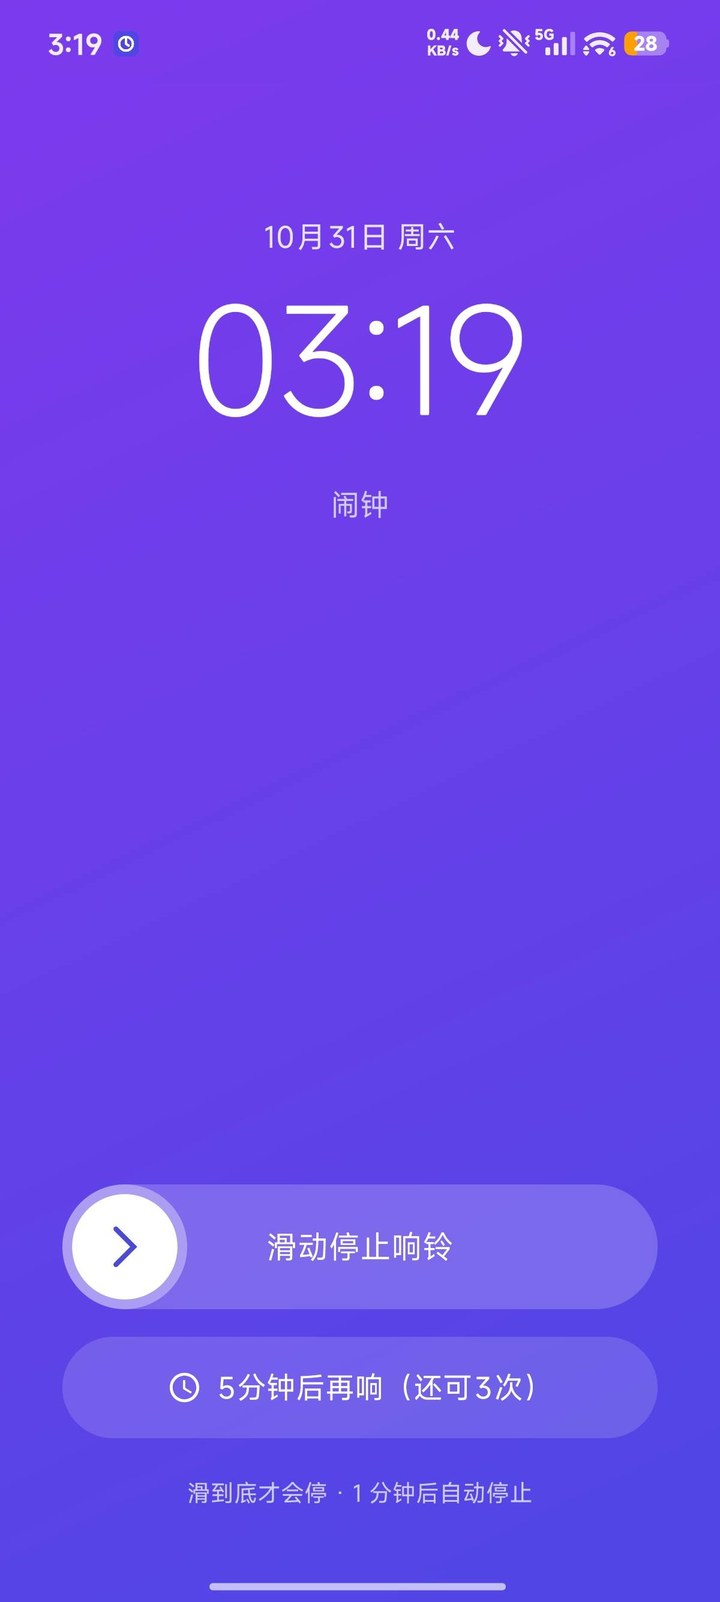
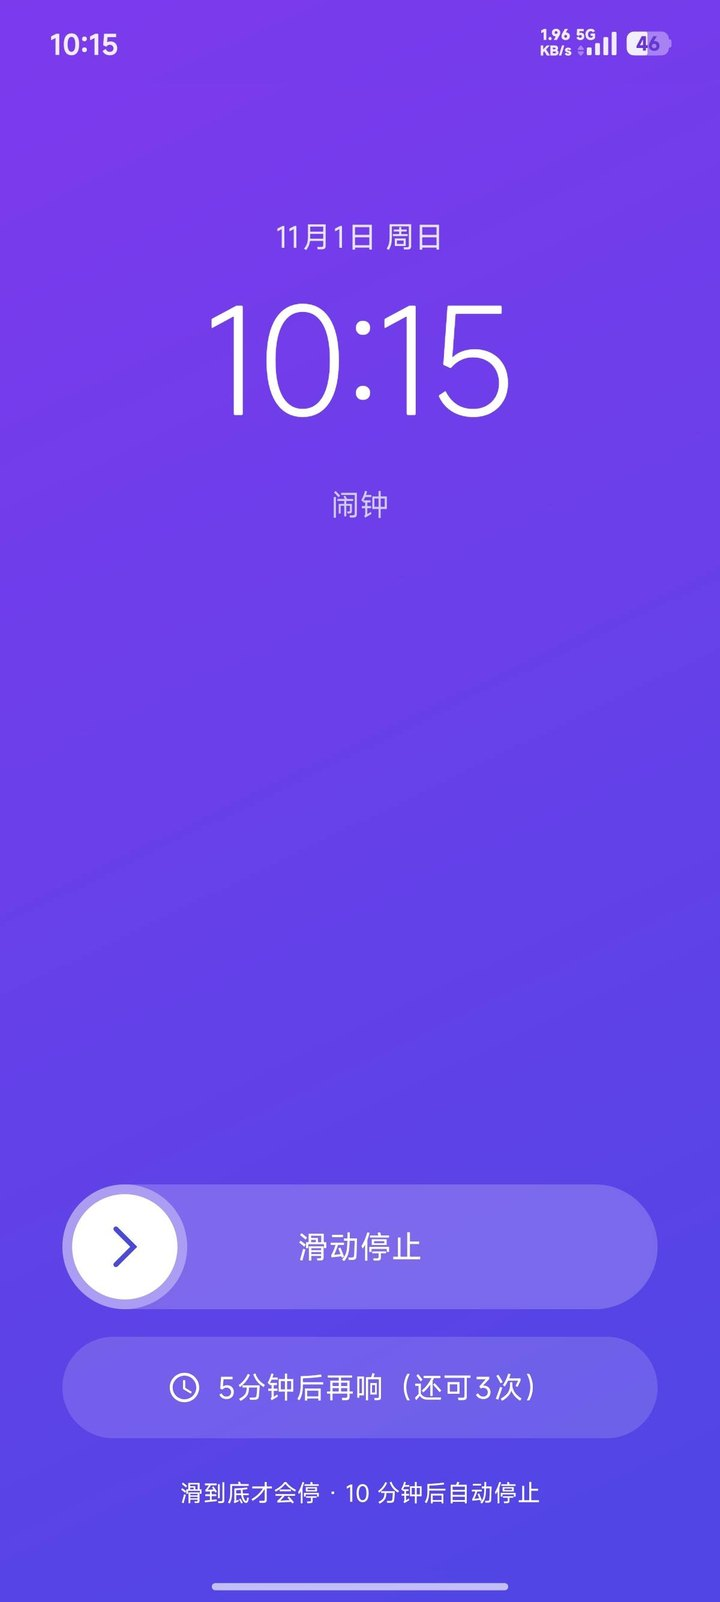
v1.0.8（246）：桌面图标改成 App 内那副，README 三张截图换新
桌面图标：针 7 → 4.7（原版针与环同粗，是「看着笨」的根源），底色换成
bg_hero 的 #4F46E5 → #7C3AED、135°，与 App 内 logo 同一套。
SystemSurfaceNightTest 的两个端点断言跟着改，守的仍是「不许引 @color」。

截图：1-home / 2-settings / 3-ringing 换成 2026-11-01 真机截图，等比缩到 720 宽，
与旧图同尺寸。小部件两张（4/5）要等新包装上后重拍。

864 测试 0 失败，lint 0 errors；APK 2,834,397 字节 / MD5 9b1bbcf6bdaefa39766193a49f47d9d3。

diff --git a/app/src/test/java/io/github/iosephuschen/weekdayalarm/SystemSurfaceNightTest.java b/app/src/test/java/io/github/iosephuschen/weekdayalarm/SystemSurfaceNightTest.java
@@ -92,7 +92,10 @@ public class SystemSurfaceNightTest {
         String body = xml.replaceAll("(?s)<!--.*?-->", "");
         assertFalse("图标底色不能引用 @color（夜间会被提亮，v0.76.1 用户反馈「像变透明了」）",
                 body.contains("@color/"));
-        assertTrue("渐变两个端点要写死在文件里", body.contains("#6459F2") && body.contains("#4C42D9"));
+        // v1.0.8：两个端点从 #6459F2/#4C42D9 换成 bg_hero 那对 #4F46E5/#7C3AED
+        // （和 App 内 logo 摆一起时，原来那对偏深偏灰）。守的还是「写死」这件事。
+        assertTrue("渐变两个端点要写死在文件里（v1.0.8 起与 bg_hero 同色）",
+                body.contains("#4F46E5") && body.contains("#7C3AED"));
     }
 
     /** 两类系统 surface 的配置文件都必须引用无夜间版的固定 token。 */

diff --git a/app/src/main/java/io/github/iosephuschen/weekdayalarm/Changelog.java b/app/src/main/java/io/github/iosephuschen/weekdayalarm/Changelog.java
@@ -57,6 +57,8 @@ public final class Changelog {
      * 一版四条加起来已经顶满一屏。{@code ChangelogTest.latestEntries_stayShort} 守着这条线。
      */
     private static final Entry[] ENTRIES = {
+            new Entry(246, "1.0.8", "2026/11/01", "桌面图标改成 App 内那副",
+                    "桌面图标改成 App 内那副：针收细，底色换成同一对紫"),
             new Entry(245, "1.0.7", "2026/11/01", "logo 回到宽环，小部件预览重出",
                     "首页那枚 logo 去掉刻度和轴点，回到宽环 + 指针，小尺寸下不再糊",
                     "「添加小部件」的预览图还是调亮之前的旧配色，已按现在的样子重出"),

diff --git a/docs/更新日志.md b/docs/更新日志.md
@@ -12,6 +12,23 @@
 
 ---
 
+### v1.0.8（versionCode 246）— 桌面图标改成 App 内那副
+
+用户把桌面图标和 App 内 logo 并排发过来：「原版不好看（桌面），App 内 logo 挺好看，
+你把桌面图标改成 app 内 logo 这样子就行了」。
+
+放到一起才看明白差在哪——**针的粗细**。App 内那副的针只有环宽的 0.67（1.8 : 2.7），
+而桌面原版的针和环一样粗（7 : 7），同样是「环 + 一笔折线」，前者轻、后者笨。
+之前我一直以为差在「有没有刻度」，其实刻度只占了一半。
+
+现在桌面图标的几何按 `ic_clock_white` 等比放大 2.614 倍（46 / 17.6）：
+环外缘 23、环宽 7、针长照抄、**针宽 7 → 4.7**。
+
+底色也一并对齐：原来自己一套 `#6459F2 → #4C42D9`（偏深偏灰），现在换成
+`bg_hero` 的 `#4F46E5 → #7C3AED`、角度同样 135°。两枚摆在一起终于是同一套。
+
+---
+
 ### v1.0.7（versionCode 245）— logo 回到宽环，小部件预览重出
 
 **一、首页那枚 logo 退回原样。**
@@ -26,8 +43,9 @@
 而底色是 `#4F46E5 → #7C3AED` 的渐变，图形落在渐变偏右的位置会透出一圈色差；
 挖空之后露的是真底色，放哪都对。padding 也从 4dp 回到 8dp。
 
-桌面图标（启动器里那枚）不动，仍是带刻度的表盘——它显示在 48dp 以上的尺寸，
-刻度站得住。图标和 App 内 logo 本来就不是同一件事，硬要一致反而两头都不好看。
+桌面图标（启动器里那枚）这一版没动，理由是「48dp 以上刻度站得住」。这句判断
+第二天就被推翻了：用户把两枚并排放过来，说「原版桌面图标不好看，App 内那枚好看」。
+放在一起看确实不像同一个 App——详见 v1.0.8。
 
 **二、「添加小部件」里的预览图还是旧配色。**
 

diff --git a/docs/打工人闹钟-使用说明.md b/docs/打工人闹钟-使用说明.md
@@ -4,8 +4,8 @@
 
 双休、单休（周日休 / 周六休）、大小周都支持——不管哪种排班，都不用再手动改闹钟。
 
-- 当前版本：**v1.0.7**（正式版）
-- 安装包：`打工人闹钟-v1.0.7.apk`（versionCode 245）
+- 当前版本：**v1.0.8**（正式版）
+- 安装包：`打工人闹钟-v1.0.8.apk`（versionCode 246）
 - 系统要求：Android 8.0（API 26）及以上
 
 ---
@@ -25,7 +25,7 @@
 >
 > 已经在 v0.87.3 及之后的版本，直接覆盖安装即可。
 
-1. 把 `打工人闹钟-v1.0.7.apk` 传到手机（微信文件传输助手 / 数据线 / 网盘均可）。
+1. 把 `打工人闹钟-v1.0.8.apk` 传到手机（微信文件传输助手 / 数据线 / 网盘均可）。
 2. 点击安装。若提示「未知来源应用」，在弹窗里允许本次安装即可。
    若弹出「未查询到此应用的 ICP 备案信息」，**点「继续安装」**——这是国产系统对非应用商店
    安装包的例行提示（本项目不上架、不收费，没有备案），不影响任何功能。

diff --git a/docs/项目状态.md b/docs/项目状态.md
@@ -24,8 +24,8 @@
 | 项 | 值 |
 | --- | --- |
 | 代码 | 本仓库（Java，无第三方依赖） |
-| 版本 | **v1.0.7 / versionCode 245**（引导页副标题不再写死计数 + 首页 logo 回到宽环 + 小部件预览图重出） |
-| 安装包 | `打工人闹钟-v1.0.7.apk`（2,834,680 字节 / MD5 `43e61749fd5e3edbb949dea6231a27d2`；包名 `io.github.iosephuschen.weekdayalarm`，签名 `d417fb1f…bdb126`，第二代证书） |
+| 版本 | **v1.0.8 / versionCode 246**（引导页副标题不再写死计数 + 首页与桌面 logo 并成一套 + 小部件预览图重出） |
+| 安装包 | `打工人闹钟-v1.0.8.apk`（2,834,397 字节 / MD5 `9b1bbcf6bdaefa39766193a49f47d9d3`；包名 `io.github.iosephuschen.weekdayalarm`，签名 `d417fb1f…bdb126`，第二代证书） |
 | 测试 | **864 条，0 失败**（其中 3 条是预览图导出工具，默认跳过） |
 | 规模 | 72 个主代码文件 / 18346 行 |
 | 最近提交 | 见 `git log -1`（不再手抄 hash——抄了下次就过期，表格里曾有过三处过期数字） |

diff --git a/README.md b/README.md
@@ -44,7 +44,7 @@
 
 ## 下载
 
-**v1.0.7（2026-11-01）**：[下载 APK](https://github.com/IosephusChen/weekday-alarm/releases/download/v1.0.7/weekday-alarm-1.0.7.apk)
+**v1.0.8（2026-11-01）**：[下载 APK](https://github.com/IosephusChen/weekday-alarm/releases/download/v1.0.8/weekday-alarm-1.0.8.apk)
 · [Releases 页](https://github.com/IosephusChen/weekday-alarm/releases)
 
 每个版本都建了 tag 与 Release，APK 与 `mapping.txt`（崩溃栈反混淆用）一起放，历史版本都在 Releases 里。
